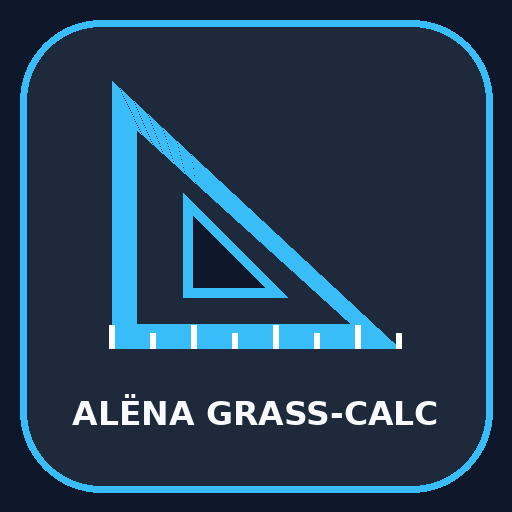
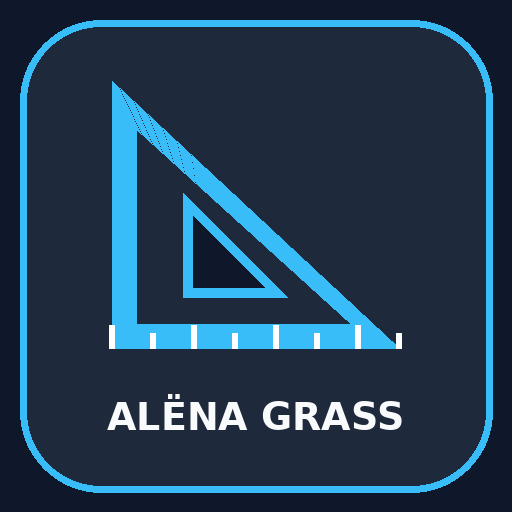
Add files via upload

Changed region(s): [[0.125, 0.75, 0.8438, 0.8438]]

diff --git a/index.html b/index.html
@@ -6,9 +6,9 @@
   <meta name="theme-color" content="#0f172a">
   <meta name="apple-mobile-web-app-capable" content="yes">
   <meta name="apple-mobile-web-app-status-bar-style" content="black-translucent">
-  <meta name="apple-mobile-web-app-title" content="GRASS-CALC">
+  <meta name="apple-mobile-web-app-title" content="ALËNA GRASS">
   <link rel="manifest" href="manifest.json">
-  <title>ALËNA GRASS-CALC | 3D Калькулятор и Дневник курса</title>
+  <title>ALËNA GRASS | 3D Калькулятор и Дневник курса</title>
   <link rel="icon" type="image/svg+xml" href="icon-512.svg">
   <link rel="apple-touch-icon" href="icon-512.png">
   <style>
@@ -258,24 +258,29 @@
       border-left: 3px solid var(--accent);
     }
 
+    html, body {
+      overflow-x: hidden;
+      max-width: 100vw;
+    }
+
     .actions-bar {
       display: flex;
+      flex-direction: column;
       gap: 8px;
       margin-bottom: 12px;
-      justify-content: space-between;
-      align-items: center;
+      width: 100%;
     }
 
     .search-input {
       background: var(--input-bg);
       border: 1px solid var(--card-border);
       border-radius: 8px;
-      padding: 8px 10px;
+      padding: 9px 12px;
       color: #fff;
-      font-size: 0.82rem;
+      font-size: 0.84rem;
       outline: none;
-      flex: 1;
-      min-width: 120px;
+      width: 100%;
+      min-width: 0;
     }
 
     .search-input:focus {
@@ -285,6 +290,8 @@
     .btn-group {
       display: flex;
       gap: 6px;
+      width: 100%;
+      flex-wrap: wrap;
     }
 
     button.btn {
@@ -292,15 +299,39 @@
       color: #fff;
       border: 1px solid var(--card-border);
       border-radius: 8px;
-      padding: 8px 10px;
-      font-size: 0.8rem;
+      padding: 8px 8px;
+      font-size: 0.76rem;
       font-weight: 600;
       cursor: pointer;
       display: flex;
       align-items: center;
+      justify-content: center;
       gap: 4px;
       transition: all 0.15s ease;
       white-space: nowrap;
+      flex: 1 1 0;
+      min-width: 0;
+    }
+
+    @media (min-width: 640px) {
+      .actions-bar {
+        flex-direction: row;
+        justify-content: space-between;
+        align-items: center;
+      }
+      .search-input {
+        width: auto;
+        flex: 1;
+      }
+      .btn-group {
+        width: auto;
+        flex-wrap: nowrap;
+      }
+      button.btn {
+        flex: 0 0 auto;
+        padding: 8px 12px;
+        font-size: 0.8rem;
+      }
     }
 
     button.btn:active {
@@ -768,7 +799,7 @@
       <div class="logo-area">
         <div class="logo-icon">📐</div>
         <div>
-          <h1>ALËNA GRASS-CALC</h1>
+          <h1>ALËNA GRASS</h1>
           <div class="subtitle">Индивидуальный калькулятор и дневник курса</div>
         </div>
       </div>
@@ -1594,7 +1625,7 @@
       if (groupIndex < 0) groupIndex = 0;
       if (groupIndex > 5) groupIndex = 5;
 
-      let text = `ALËNA GRASS-CALC РАСЧЕТ\nПараметры: Рост ${h} см, ОГ ${og} см, ОБ ${ob} см (Полнота: ${groupIndex}-я гр.)\n\n`;
+      let text = `ALËNA GRASS РАСЧЕТ\nПараметры: Рост ${h} см, ОГ ${og} см, ОБ ${ob} см (Полнота: ${groupIndex}-я гр.)\n\n`;
       measurementsData.forEach(item => {
         const baseVal = item.bases[groupIndex];
         const shiftSize = item.dynamicB ? item.calcShiftB(og, kB, groupIndex) : item.dB * kB;

diff --git a/sw.js b/sw.js
@@ -1,4 +1,4 @@
-const CACHE_NAME = 'grass-calc-v8';
+const CACHE_NAME = 'grass-v10';
 const ASSETS = [
   './',
   './index.html',
